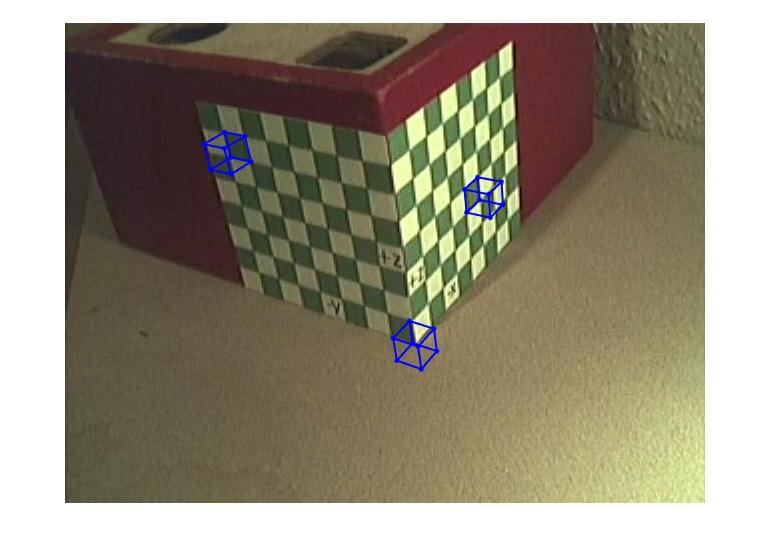
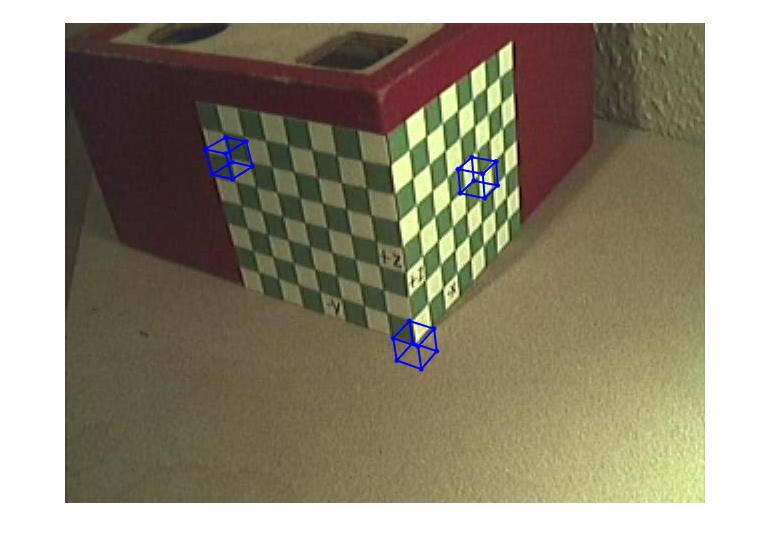
Finished estimating cube projections for 4 different views

Changed region(s): [[0.2494, 0.216, 0.3429, 0.3394], [0.5922, 0.2777, 0.6545, 0.4011]]

diff --git a/Lab 1/env/main.m b/Lab 1/env/main.m
@@ -128,5 +128,77 @@ function main()
     drawCubes(M);
     
     %% Question 8.1.2
+    XYZ = [0 5 5
+           0 3 5
+           0 1 5
+           1 0 5
+           3 0 5
+           5 0 5
+           0 5 3
+           0 3 3
+           0 1 3];
+       
+    % View 1
+    figure('name', 'Cubes on view 1')
+    imshow('view1.jpg');
+    %xy = ginput(9)
+    xy = [189.0000  345.0000
+          225.0000  351.0000
+          263.0000  356.0000
+          301.0000  356.0000
+          333.0000  350.0000
+          363.0000  343.0000
+          191.0000  396.0000
+          225.0000  400.0000
+          264.0000  407.0000];
+    M = estimateProjectionMatrix(xy, XYZ);
+    drawCubes(M);
     
+    % View 2
+    figure('name', 'Cubes on view 2')
+    imshow('view2.jpg');
+    %xy = ginput(9)
+    xy = [142.0000  350.0000
+          175.0000  354.0000
+          211.0000  358.0000
+          250.0000  356.0000
+          286.0000  348.0000
+          318.0000  341.0000
+          145.0000  399.0000
+          178.0000  404.0000
+          215.0000  409.0000];
+    M = estimateProjectionMatrix(xy, XYZ);
+    drawCubes(M);
+    
+    % View 3
+    figure('name', 'Cubes on view 3')
+    imshow('view3.jpg');
+    %xy = ginput(9)
+    xy = [190.0000  351.0000
+          220.0000  355.0000
+          253.0000  360.0000
+          292.0000  359.0000
+          330.0000  353.0000
+          366.0000  346.0000
+          192.0000  399.0000
+          222.0000  405.0000
+          255.0000  412.0000];
+    M = estimateProjectionMatrix(xy, XYZ);
+    drawCubes(M);
+    
+    % View 4
+    figure('name', 'Cubes on view 4')
+    imshow('view4.jpg');
+    %xy = ginput(9)
+    xy = [136   358
+          164   362
+          193   367
+          232   366
+          275   357
+          313   350
+          139   407
+          167   413
+          196   418];
+    M = estimateProjectionMatrix(xy, XYZ);
+    drawCubes(M);
 end

diff --git a/Lab 1/env/drawCubes.m b/Lab 1/env/drawCubes.m
@@ -2,8 +2,8 @@
 function drawCubes(M)
 
     cube1 = createCube(1, [0,0,0]);
-    cube2 = createCube(1, [0,7,6.2]);
-    cube3 = createCube(1, [5.3,0,3]);
+    cube2 = createCube(1, [0,7,6]);
+    cube3 = createCube(1, [5,0,4]);
     subPlotFaces(estimateProjection(cube1, M));
     subPlotFaces(estimateProjection(cube2, M));
     subPlotFaces(estimateProjection(cube3, M));
